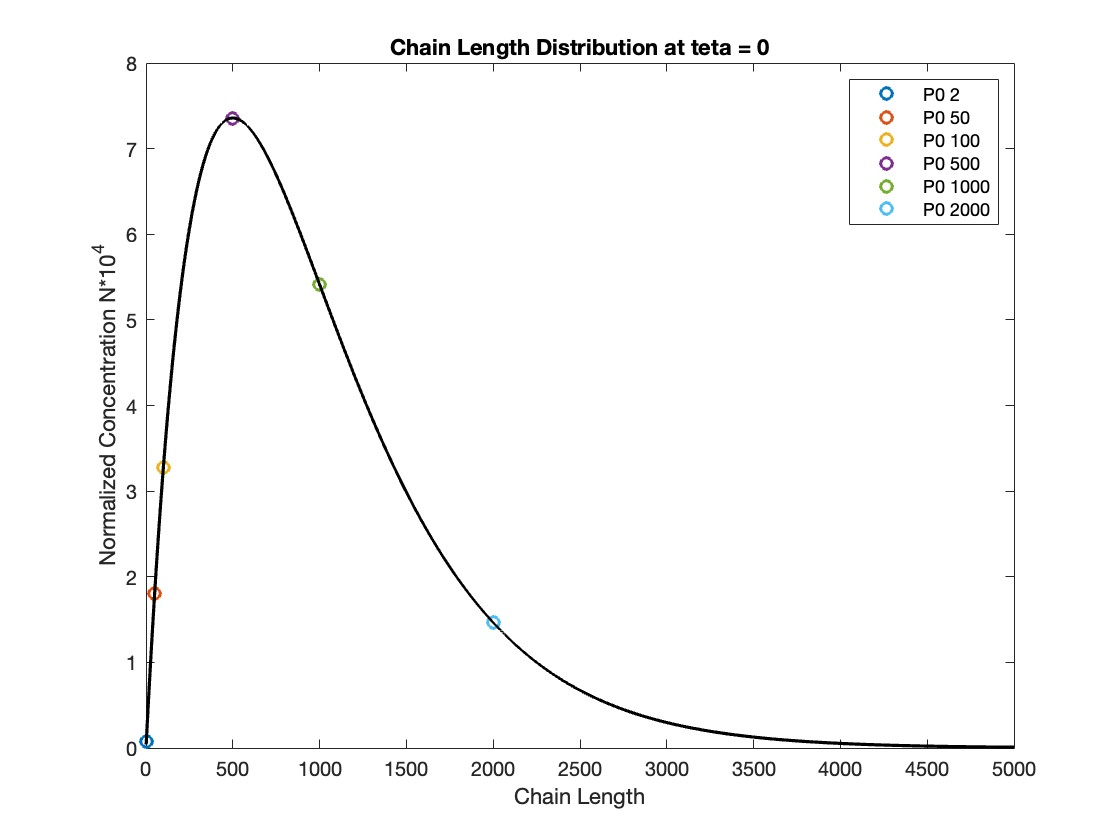
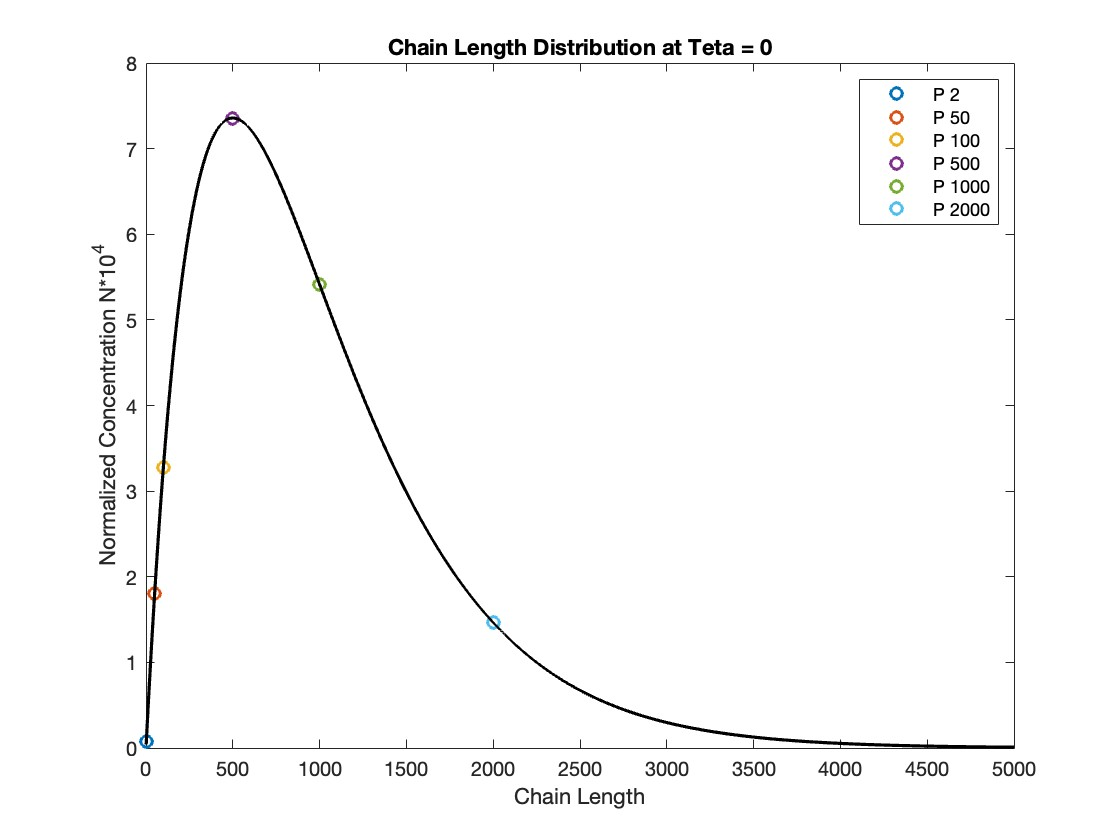
Add files via upload

Changed region(s): [[0.3438, 0.031, 0.6875, 0.0929], [0.7812, 0.0929, 0.8438, 0.2786]]

diff --git a/PBE_gaussiana.m b/PBE_gaussiana.m
@@ -66,8 +66,7 @@ figure(1)
 plot(chain_length(2), P0(2)*1e4, 'o', 'LineWidth',1.6)
 hold on
 
-
-title('Chain Length Distribution at teta = 0')
+title('Chain Length Distribution at Teta = 0')
 xlabel('Chain Length')
 ylabel('Normalized Concentration N*10^4')
 
@@ -104,7 +103,7 @@ plot(teta_1,Pn_matrix(:,999).*1e4,"o",'Color',cc(5,:))
 plot(teta,N(:,2000).*1e4, 'LineWidth',1.6, 'Color',cc(6,:))
 plot(teta_1,Pn_matrix(:,1999).*1e4,"o",'Color',cc(6,:))
 axis([0 6000 0 8])
-xlabel('Dimensionless Time (teta)')
+xlabel('Dimensionless Time (Teta)')
 ylabel('Normalized Concentration N*10^4')
 legend('P0 2 Exact', 'P0 2 Analytical', 'P0 50 Exact', 'P0 50 Analytical','P0 100 Exact', 'P0 100 Analytical','P0 500 Exact', 'P0 500 Analytical','P0 1000 Exact','P0 1000 Analytical','P0 2000 Exact', 'P0 2000 Analytical')
 
